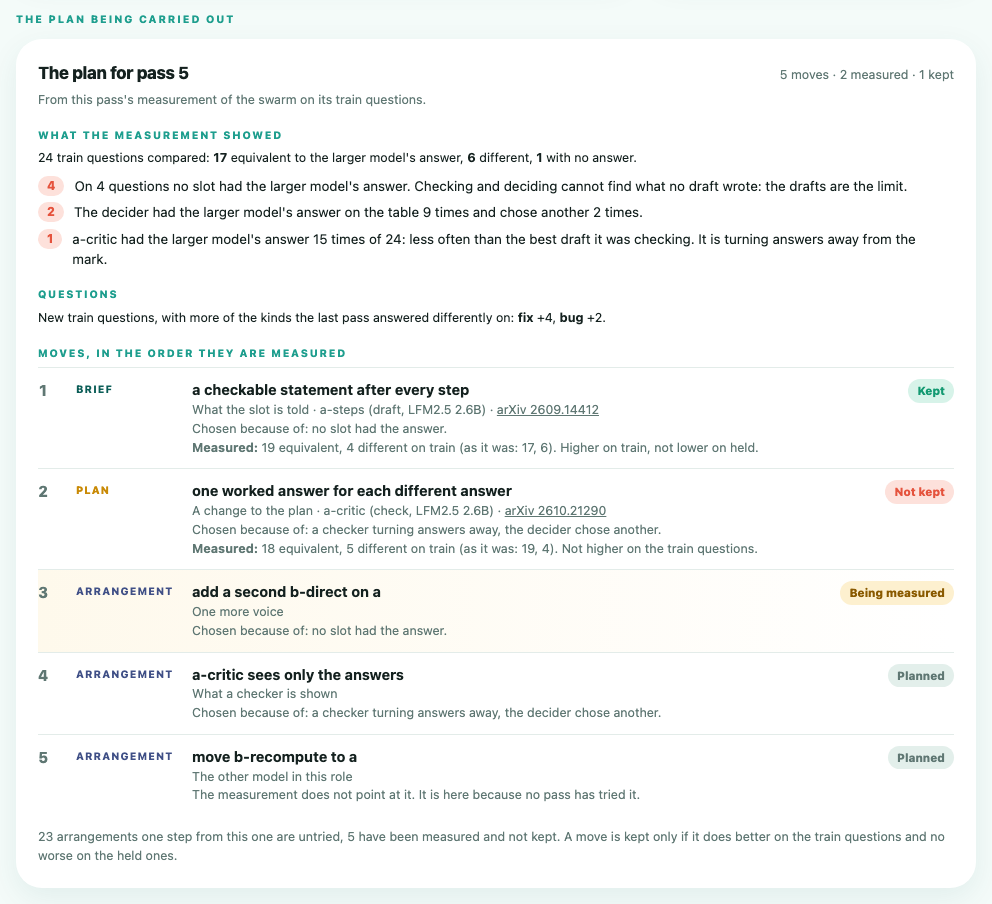
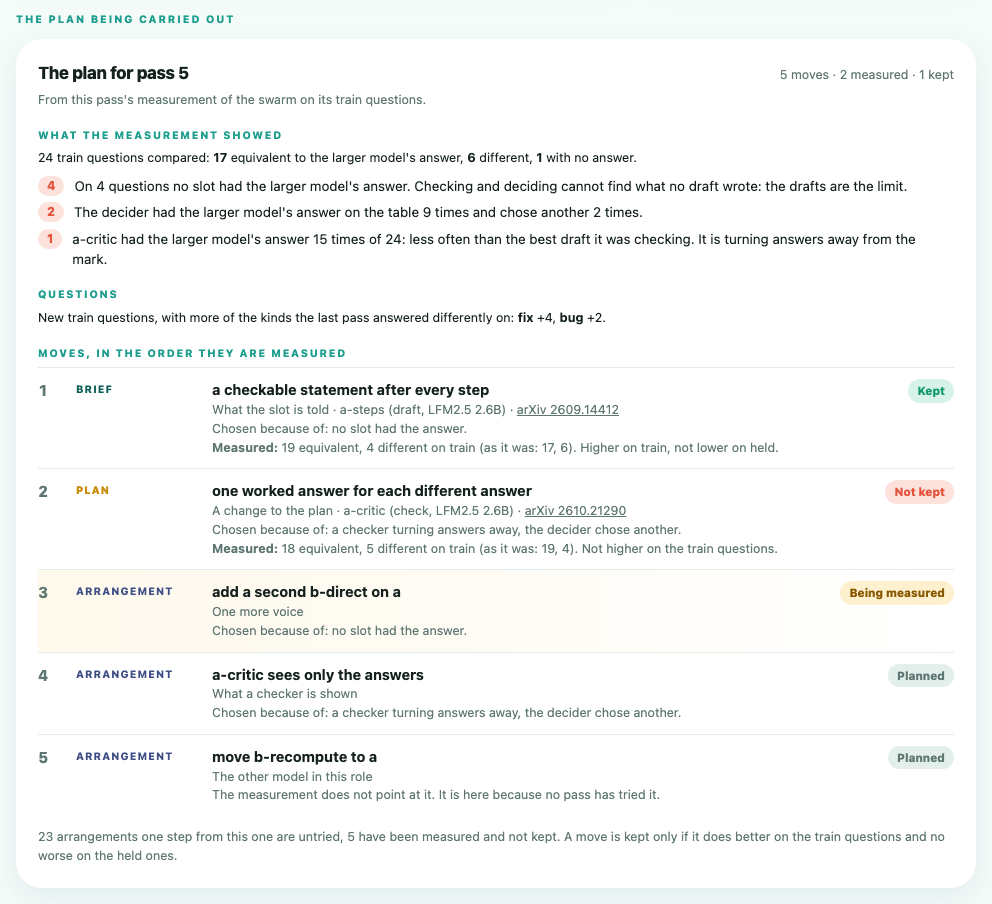
Keep the plan's move labels from running into titles
The ARRANGEMENT label was wider than its column. Widen the column and
keep the label on one line. Checked at 390 to 2000 px; the plan
screenshot is retaken.

diff --git a/ui/swarm_ui.py b/ui/swarm_ui.py
@@ -123,8 +123,8 @@ dialog#big{border:0;border-radius:26px;padding:26px;max-width:min(1180px,96vw);w
 .plan-head{display:flex;flex-wrap:wrap;gap:8px 16px;justify-content:space-between;align-items:baseline}.plan h4{font-size:10.5px;font-weight:800;letter-spacing:.16em;text-transform:uppercase;color:var(--teal2);margin:18px 0 6px}
 .finds{margin:0;padding:0;list-style:none;display:grid;gap:6px}.finds li{display:grid;grid-template-columns:auto minmax(0,1fr);gap:10px;align-items:start;font-size:13.5px}
 .finds .n{font-weight:800;background:#fde1db;color:var(--wrong);border-radius:999px;padding:1px 9px;font-size:12px;white-space:nowrap}
-.moves{margin:0;padding:0;list-style:none}.moves li{display:grid;grid-template-columns:26px 104px minmax(0,1fr) auto;gap:12px;align-items:start;padding:11px 0;border-top:1px solid var(--line2)}
-.moves .o{font-weight:800;color:var(--mist);font-variant-numeric:tabular-nums}.moves .k{font-size:10.5px;font-weight:800;letter-spacing:.1em;text-transform:uppercase;padding:3px 0;color:var(--teal)}
+.moves{margin:0;padding:0;list-style:none}.moves li{display:grid;grid-template-columns:26px 124px minmax(0,1fr) auto;gap:12px;align-items:start;padding:11px 0;border-top:1px solid var(--line2)}
+.moves .o{font-weight:800;color:var(--mist);font-variant-numeric:tabular-nums}.moves .k{font-size:10.5px;font-weight:800;letter-spacing:.1em;text-transform:uppercase;padding:3px 0;color:var(--teal);white-space:nowrap;min-width:0}
 .moves .k.arrangement{color:var(--tgt)}.moves .k.plan{color:var(--bon)}.moves b{display:block;font-size:14.5px}.moves small{display:block;color:var(--mist);font-size:12.5px;overflow-wrap:anywhere}.moves small a{color:inherit}
 .moves li.running{background:linear-gradient(90deg,#fdf0cf66,transparent)}.pill.planned{background:var(--soft);color:var(--mist)}.pill.running{background:#fdf0cf;color:#8a5a00}
 @media (max-width:700px){.moves li{grid-template-columns:22px minmax(0,1fr) auto}.moves .k{grid-column:2}.moves .mv{grid-column:2/4}}
